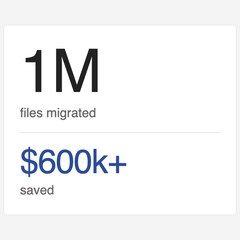
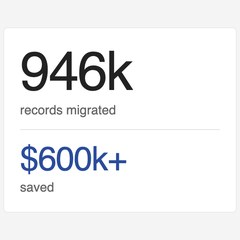
Add FloSports and LionNation, and tell the migration story at full scale
Add FloSports (the live stats engine) and LionNation (FanHero) to
projects. Rewrite the classifier post around the production numbers from
the cutover: 946,091 document records, 64% typed, 38 files of at most
25,000 rows, and the checks before it shipped. Match the homepage,
blog index, feed, and sitemap.

Changed region(s): [[0.0875, 0.175, 0.5542, 0.4083], [0.0875, 0.5833, 0.5542, 0.8167], [0.0875, 0.4375, 0.4958, 0.4958]]

diff --git a/blog/six-hundred-thousand-dollars-and-a-document-classifier/index.html b/blog/six-hundred-thousand-dollars-and-a-document-classifier/index.html
@@ -4,23 +4,23 @@
     <meta charset="UTF-8" />
     <meta name="viewport" content="width=device-width, initial-scale=1.0" />
     <title>Consultants wanted $600,000 to sort our files — Joel Cook</title>
-    <meta name="description" content="Years of misfiled documents, a move from Workday to Banner, and a quote with a lot of zeros. We passed, and I built the classifier myself." />
+    <meta name="description" content="Nearly a million document records, a move from Workday to Banner, and a quote with a lot of zeros. We passed, and I built the classifier myself." />
     <meta name="author" content="Joel Cook" />
     <link rel="canonical" href="https://joelcook.github.io/blog/six-hundred-thousand-dollars-and-a-document-classifier/" />
     <link rel="alternate" type="application/rss+xml" title="Joel Cook" href="https://joelcook.github.io/feed.xml" />
     <meta property="og:type" content="article" />
     <meta property="og:site_name" content="Joel Cook" />
     <meta property="og:title" content="Consultants wanted $600,000 to sort our files" />
-    <meta property="og:description" content="Years of misfiled documents, a move from Workday to Banner, and a quote with a lot of zeros. We passed, and I built the classifier myself." />
+    <meta property="og:description" content="Nearly a million document records, a move from Workday to Banner, and a quote with a lot of zeros. We passed, and I built the classifier myself." />
     <meta property="og:url" content="https://joelcook.github.io/blog/six-hundred-thousand-dollars-and-a-document-classifier/" />
     <meta property="og:image" content="https://joelcook.github.io/images/me.jpeg" />
     <meta property="article:published_time" content="2026-09-12" />
-    <meta property="article:modified_time" content="2026-10-06" />
+    <meta property="article:modified_time" content="2026-10-19" />
     <meta name="twitter:card" content="summary_large_image" />
     <meta name="twitter:title" content="Consultants wanted $600,000 to sort our files" />
-    <meta name="twitter:description" content="Years of misfiled documents, a move from Workday to Banner, and a quote with a lot of zeros. We passed, and I built the classifier myself." />
+    <meta name="twitter:description" content="Nearly a million document records, a move from Workday to Banner, and a quote with a lot of zeros. We passed, and I built the classifier myself." />
     <meta name="twitter:image" content="https://joelcook.github.io/images/me.jpeg" />
-    <script type="application/ld+json">{"@context": "https://schema.org", "@type": "BlogPosting", "headline": "Consultants wanted $600,000 to sort our files", "description": "Years of misfiled documents, a move from Workday to Banner, and a quote with a lot of zeros. We passed, and I built the classifier myself.", "url": "https://joelcook.github.io/blog/six-hundred-thousand-dollars-and-a-document-classifier/", "datePublished": "2026-09-12", "dateModified": "2026-10-06", "author": {"@type": "Person", "name": "Joel Cook", "url": "https://joelcook.github.io/"}}</script>
+    <script type="application/ld+json">{"@context": "https://schema.org", "@type": "BlogPosting", "headline": "Consultants wanted $600,000 to sort our files", "description": "Nearly a million document records, a move from Workday to Banner, and a quote with a lot of zeros. We passed, and I built the classifier myself.", "url": "https://joelcook.github.io/blog/six-hundred-thousand-dollars-and-a-document-classifier/", "datePublished": "2026-09-12", "dateModified": "2026-10-19", "author": {"@type": "Person", "name": "Joel Cook", "url": "https://joelcook.github.io/"}}</script>
     <style>
         :root {
             --text: #333333;
@@ -217,21 +217,23 @@
         <hr class="top-rule" />
         <article>
             <h1>Consultants wanted $600,000 to sort our files</h1>
-            <p class="standfirst">Years of misfiled documents, a move from Workday to Banner, and a quote with a lot of zeros. We passed, and I built the classifier myself.</p>
-            <p class="byline"><time datetime="2026-09-12">12 Sep, 2026</time></p>
+            <p class="standfirst">Nearly a million document records, a move from Workday to Banner, and a quote with a lot of zeros. We passed, and I built the classifier myself.</p>
+            <p class="byline"><time datetime="2026-09-12">12 Sep, 2026</time> · updated <time datetime="2026-10-19">19 Oct, 2026</time></p>
 
-            <p>When the president of Indian River State College decided we were moving from Workday to Banner, it sounded like a fresh start. New system, clean slate! Except nothing about a migration is ever clean, because you have to drag the past along with you. And our past was years of documents, filed in broad categories that said nothing about where any of it belonged in Banner.</p>
-            <p>This is exactly the kind of problem that makes consultants’ eyes light up. It’s big, it’s scary, it smells like risk, and so naturally the price tag follows suit. One outside company put the classification work alone at <strong>$600,000</strong>. Six hundred thousand dollars! To sort files!</p>
+            <p>Nine hundred forty-six thousand and ninety-one. That’s how many document records we had to move from Workday into Banner, every one of them into the right folder, under the right document type, attached to the right person. More than half a million actual files: financial aid forms, admissions paperwork, invoices, W-9s, expense reports. Years of the stuff.</p>
+            <p>When the president of Indian River State College decided we were moving to Banner, it sounded like a fresh start. New system, clean slate! Except nothing about a migration is ever clean, because you have to drag the past along with you. And our past was filed in categories so broad they said nothing about where anything belonged on the other side.</p>
+            <p>This is exactly the kind of problem that makes consultants’ eyes light up. It’s huge, it’s scary, it smells like risk, and so naturally the price tag follows suit. One outside company put the classification work alone at <strong>$600,000</strong>. Six hundred thousand dollars! To sort files!</p>
             <p>We passed. I built the classifier in-house instead, and that $600k is the spending we avoided. (That’s where the savings number comes from, before anyone asks.)</p>
-            <p>Here’s what the scary-problem pricing never accounts for: most of the evidence was already sitting right there in the export. Filenames, paths, existing categories. You don’t need a team of analysts to read a filename. You need rules a person can actually read, and an output the new system will actually accept.</p>
-            <p>So that’s what I built. Python rules around approved phrases and destinations. Normalized separators. And, crucially, known names and IDs masked before any matching happens, including names that turn up elsewhere in the input.</p>
-            <p>Why does that matter so much? Because my favorite bug in the whole project was two letters long. <code>DE</code> can mean Dual Enrollment. It can also be the “De” in somebody’s name. Let a matcher get a little too enthusiastic, and a student’s name becomes evidence about what kind of document they submitted. Tiny bug. Now repeat it across an entire migration! So the rule is simple: a filename has to say something about the document itself before it earns a placement.</p>
-            <p>When the evidence conflicted, the file went to an approved fallback. Yes, that makes the percentage look worse. I don’t care. It’s so tempting to juice the specific-classification number because it makes for a prettier dashboard, but the person digging through the wrong folder later isn’t going to be consoled by your dashboard.</p>
-            <p>The documented sample run covered 1,887 index rows. 1,396 got a specific document type, and 491 went to the approved Legacy Document destination. That’s a sample, not a claim that every document got inspected or that accuracy is 100%. But here’s the kicker: <strong>the run made zero LLM calls.</strong> Zero!</p>
-            <p>Now, there is a model-assisted path. It can use a local model through Ollama, or a cloud backend if someone explicitly flips it on. Either way, the model only ever sees redacted inputs, and its suggestions sit and wait for a human to approve them. But the rules don’t need any of that machinery to do their job. Which is exactly how it should be.</p>
-            <p>Then there was the file we actually had to hand over. Workday’s exports turned out to be <code>.txt</code> files with CSV inside and property values that looked almost, but not quite, like JSON. Lovely! And getting the categories right was worth precisely nothing if the corrected index choked the importer.</p>
-            <p>So the writer keeps the source formatting and swaps only the document-type value. The parser finds that property by its key, so it couldn’t care less if the columns move around. There are tests for line endings, quoting, reordered properties, and mismatched headers in the merged output. Every reviewer change gets a stable record hash and lands in an audit trail.</p>
-            <p>That’s the whole trick, really. Get close enough to an intimidating problem and it stops being intimidating. It turns into a list: a filing rule, somebody’s name, the exact shape of a text file. Not one item on that list needed a $600,000 proposal.</p>
+            <p>Here’s what scary-problem pricing never accounts for: most of the evidence was already sitting right there in the export. Filenames, paths, the old categories. You don’t need a team of analysts to read a filename. You need rules a person can actually read, and an output the new system will actually accept.</p>
+            <p>So that’s what I built. Python rules around approved phrases and destinations. Every document type came from a sheet signed off by the people who own those records, and I didn’t invent a single mapping. And, crucially, known names and IDs get masked before any matching happens, including names that turn up elsewhere in the input.</p>
+            <p>Why does that matter so much? Because my favorite bug in the whole project was two letters long. <code>DE</code> can mean Dual Enrollment. It can also be the “De” in somebody’s name. Let a matcher get a little too enthusiastic, and a student’s name becomes evidence about what kind of document they submitted. Tiny bug. Now repeat it across nearly a million records! So the rule is simple: a filename has to say something about the document itself before it earns a placement.</p>
+            <p>When the evidence conflicted, the record went to an approved Legacy folder. Yes, that makes the percentage look worse. I don’t care! <strong>606,330 records landed on a specific document type</strong>, and the other 339,761 went to Legacy instead of getting a guess. I could have juiced that 64% into something prettier. But the person digging through the wrong folder three years from now isn’t going to be consoled by my dashboard.</p>
+            <p>Now, there is a model-assisted path. It can use a local model through Ollama, or a cloud backend if someone explicitly flips it on. Either way, the model only ever sees redacted input, and its suggestions sit and wait for a human to approve them. But the rules didn’t need it. The documented sample run, 1,887 records, made <strong>zero LLM calls</strong>. Zero!</p>
+            <p>Then there was the file we actually had to hand over. Workday’s exports turned out to be <code>.txt</code> files with CSV inside and property values that looked almost, but not quite, like JSON. Lovely! And getting the categories right was worth precisely nothing if the corrected index choked the importer. So the writer keeps the source formatting and swaps only the document-type value, with tests for line endings, quoting, reordered properties, and mismatched headers. Every reviewer change gets a stable record hash and lands in an audit trail.</p>
+            <p>And Banner had opinions. No apostrophes in first or last names. Filenames under 100 characters, so we capped them at 99. HEIC photos had to become JPGs. And one CSV with nearly a million rows was more than the load wanted to swallow, so we split it into <strong>38 files of at most 25,000 rows</strong>. Same header, same order, same rules in every chunk.</p>
+            <p>Then two of those 38 files bounced. 3,322 records had no folder, and every one of them was named something like <code>Review Document_SF_FinAid_Authorization.pdf</code>. That’s Workday’s internal form code for a book authorization. The other 96,510 book authorizations said “book authorization” in plain English, so the rules caught them. These 3,322 only spoke in form codes. One new rule, two patched files, back in the queue.</p>
+            <p>Before any of it shipped, the output was checked against the source: 946,092 lines counting the header, zero unknown document types, zero changes anywhere changes weren’t allowed, and 694,173 Banner IDs carried through intact.</p>
+            <p>That’s the whole trick, really. Get close enough to an intimidating problem and it stops being intimidating. It turns into a list: a filing rule, somebody’s name, a form code, the exact shape of a text file, a 25,000-row limit. Not one item on that list needed a $600,000 proposal.</p>
             <p>So the next time someone hands you a scary quote for a scary problem, open the export first. Read some filenames. You might just find you can build the thing yourself.</p>
         </article>
         <hr class="end-rule" />

diff --git a/index.html b/index.html
@@ -806,7 +806,7 @@
 
             <div class="project">
                 <a href="/blog/six-hundred-thousand-dollars-and-a-document-classifier/"><img src="images/thumb-classifier.jpg" width="240" height="240" alt="" /></a>
-                <p>The <a href="/blog/six-hundred-thousand-dollars-and-a-document-classifier/">Workday-to-Banner classifier</a> migrated 1 million undocumented or mislabeled files into Banner, saving the college over $600,000 compared with an outside consultant’s quote. Names and IDs are masked before matching, uncertain files go to an approved fallback instead of a guess, and an optional local model only ever sees redacted input.</p>
+                <p>The <a href="/blog/six-hundred-thousand-dollars-and-a-document-classifier/">Workday-to-Banner classifier</a> migrated nearly 1 million undocumented or mislabeled document records (946,091) into Banner, saving the college over $600,000 compared with an outside consultant’s quote. Names and IDs are masked before matching, uncertain files go to an approved fallback instead of a guess, and an optional local model only ever sees redacted input.</p>
             </div>
 
             <div class="project">
@@ -817,6 +817,16 @@
             <div class="project">
                 <a href="https://apps.apple.com/us/app/ballad-health/id1192749804"><img src="images/thumb-ballad-health.jpg" width="240" height="240" alt="" /></a>
                 <p>The <a href="https://apps.apple.com/us/app/ballad-health/id1192749804">Ballad Health app</a> is the patient app for Ballad Health, built in React Native for iOS and Android. Epic’s MyChart SDK is embedded natively and bridged into React Native, so patients can book appointments, pay bills, and see lab results in one app. Built at Modea, under HIPAA.</p>
+            </div>
+
+            <div class="project">
+                <a href="https://www.flosports.tv/"><img src="images/thumb-flosports.jpg" width="240" height="240" alt="" /></a>
+                <p>At <a href="https://www.flosports.tv/">FloSports</a> I was on the sports data team, building the live stats engine behind the broadcasts: the on-screen scoreboard, game clock, and in-game graphics. Every update was written to Google Cloud, where the web and mobile apps pulled their live scores and stats from. It powered thousands of games, watched by millions of fans.</p>
+            </div>
+
+            <div class="project">
+                <a href="https://play.google.com/store/apps/details?id=com.ocsc.lionnation&amp;hl=en_US"><img src="images/thumb-lionnation.jpg" width="240" height="240" alt="" /></a>
+                <p>At <a href="https://fanhero.com/">FanHero</a> I went from intern to mobile developer and helped launch <a href="https://play.google.com/store/apps/details?id=com.ocsc.lionnation&amp;hl=en_US">LionNation</a>, Orlando City SC’s official app, to 15k+ downloads on iOS and Android. Built in Flutter with an Elixir backend, it let fans read team news, buy tickets, and watch games live.</p>
             </div>
 
             <div class="project">

diff --git a/blog/index.html b/blog/index.html
@@ -160,7 +160,7 @@
             <li>
                 <p class="post-date"><time datetime="2026-09-12">12 Sep, 2026</time></p>
                 <p class="post-title"><a href="/blog/six-hundred-thousand-dollars-and-a-document-classifier/">Consultants wanted $600,000 to sort our files</a></p>
-                <p class="post-blurb">Years of misfiled documents, a move from Workday to Banner, and a quote with a lot of zeros. We passed, and I built the classifier myself.</p>
+                <p class="post-blurb">Nearly a million document records, a move from Workday to Banner, and a quote with a lot of zeros. We passed, and I built the classifier myself.</p>
             </li>
             <li>
                 <p class="post-date"><time datetime="2026-09-12">12 Sep, 2026</time></p>
